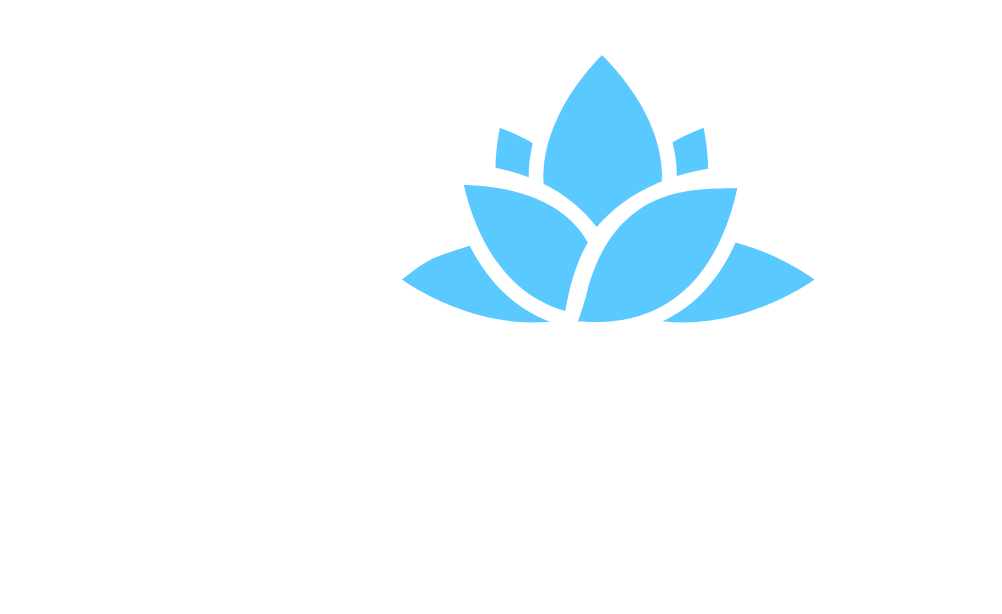
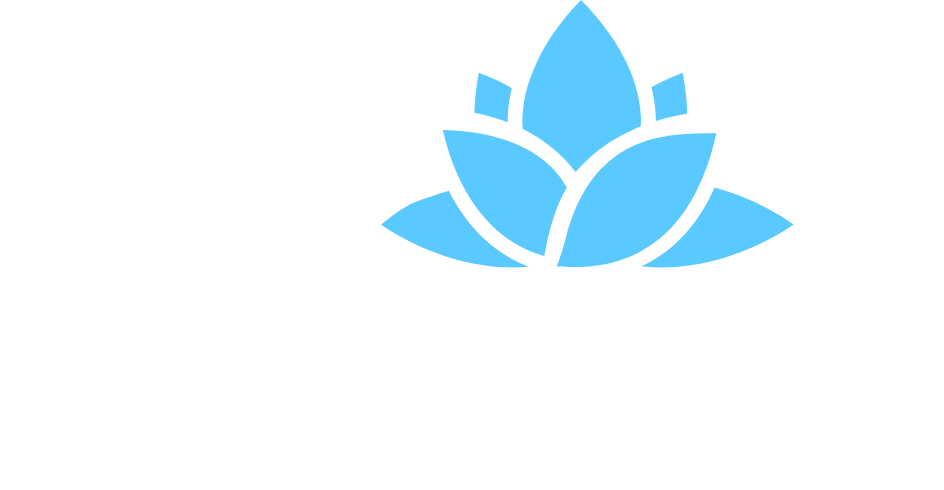
Created a footer and footer.html
Also added all the styles to the footer (inside footer.css) and removed extra transparent pixels in the logo.

Changed region(s): [[0.4301, 0.0, 0.8602, 0.551], [0.3994, 0.4286, 0.4301, 0.4898]]

diff --git a/footer.html b/footer.html
@@ -1,0 +1,45 @@
+<!DOCTYPE html>
+<html lang="en">
+  <head>
+    <meta charset="UTF-8" />
+    <meta name="viewport" content="width=device-width, initial-scale=1.0" />
+    <link rel="stylesheet" href="/css/style.css" />
+    <link rel="stylesheet" href="/css/footer.css" />
+    <title>Unitic Footer</title>
+  </head>
+  <body>
+    <footer>
+      <a href="/index.html"
+        ><img class="logo" src="/images/unitic.png" alt="Unitic Logo"
+      /></a>
+      <p class="copyright-notice">
+        &copy;
+        <script>
+          var date = new Date();
+          document.write(date.getFullYear());
+        </script>
+        Unitic. All rights reserved.
+      </p>
+      <div id="footer-links">
+        <a href="/index.html">Home</a>
+        <a href="#">Our Platform</a>
+        <a href="#">Resources</a>
+        <a href="#">Contact</a>
+      </div>
+      <p id="footer-email">
+        <a href="mailto: support@unitic.net">support@unitic.net</a>
+      </p>
+      <div class="social-icons">
+        <a href="#"
+          ><img src="/images/social media icons/instagram.svg" alt="Instagram"
+        /></a>
+        <a href="#"
+          ><img src="/images/social media icons/twitter.svg" alt="Twitter"
+        /></a>
+        <a href="#"
+          ><img src="/images/social media icons/facebook.svg" alt="Facebook"
+        /></a>
+      </div>
+    </footer>
+  </body>
+</html>

diff --git a/css/footer.css b/css/footer.css
@@ -1,0 +1,58 @@
+body {
+  background-color: white;
+}
+
+footer {
+  background-color: var(--dark-grey);
+  display: grid;
+  grid-template-columns: 1fr 1fr 1fr;
+  grid-template-areas:
+    "logo links email"
+    "copyright links social";
+  justify-items: center;
+  padding: 70px 0;
+}
+
+footer .logo {
+  grid-area: logo;
+  width: 200px;
+  transform: translate(-45px, 0);
+}
+
+footer .copyright-notice {
+  grid-area: copyright;
+  font-size: 1.2em;
+}
+
+#footer-links {
+  grid-area: links;
+  display: flex;
+  flex-direction: column;
+  align-items: center;
+  justify-content: center;
+}
+
+#footer-links a {
+  text-decoration: none;
+  font-size: 1.5em;
+  padding: 1px;
+}
+
+#footer-email {
+  grid-area: email;
+  font-size: 1.5em;
+}
+
+#footer-email a {
+  text-decoration: none;
+}
+
+footer .social-icons {
+  grid-area: social;
+  display: flex;
+}
+
+footer .social-icons img {
+  width: 40px;
+  padding: 0 22px;
+}
